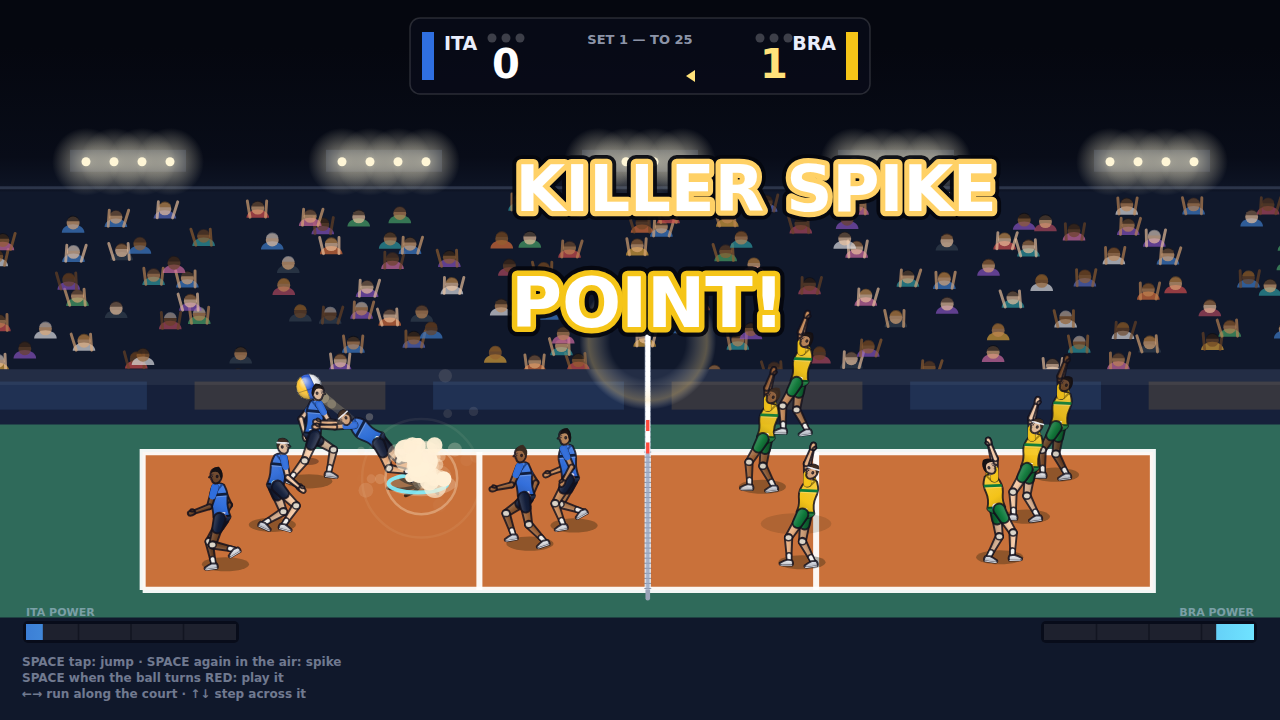
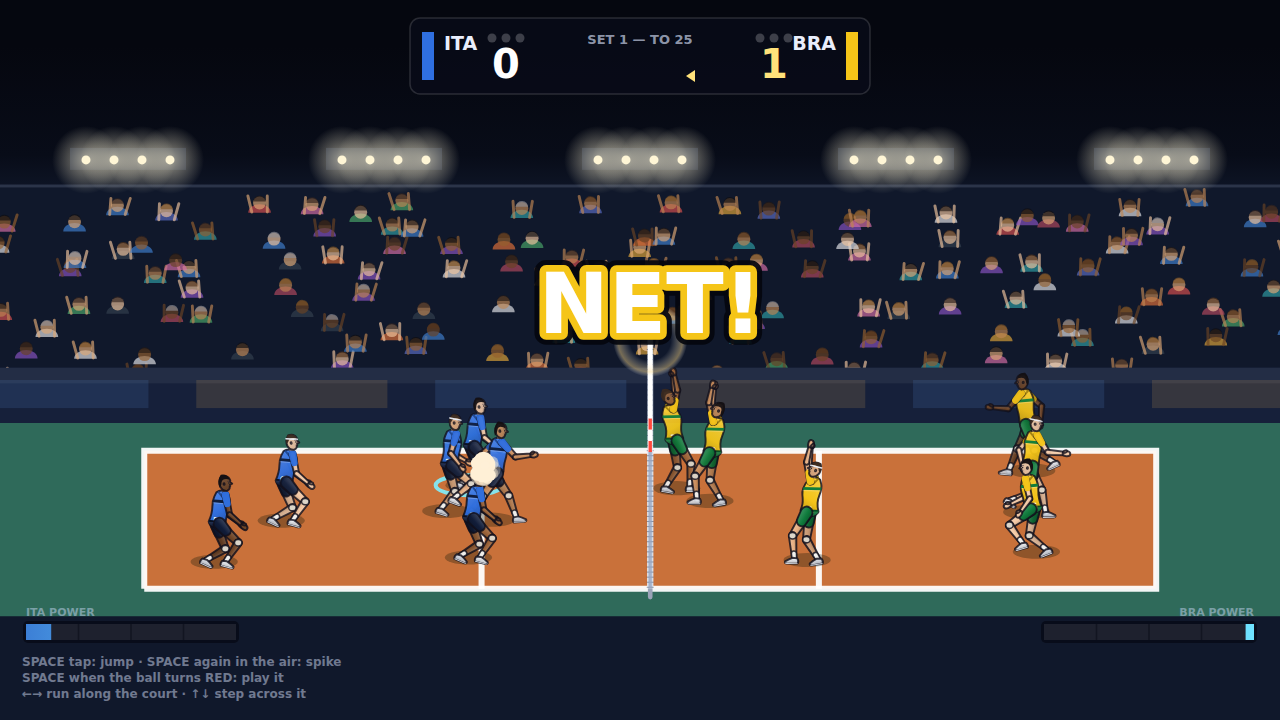
Fix the serve properly: measure where the ball goes, not just that it fired
The previous round reported the serve as working on the strength of a
harness that only checked whether the phase became 'rally'. Extended to
follow the ball, it found none of it worked: **0 of 50 serves reached the
opponent's court**. Four separate defects, each measured before and after.

**The AI never tossed.** The toss fires when the action button is released,
detected from a hold accumulating over time — but the AI issues a press that
begins and ends inside one step and never sets `actionHeld` at all. Every
computer serve therefore waited out the eight-second whistle. A press with
no hold now tosses directly: average time from whistle to serve 1.47 s.

**The server could walk to the net holding the ball**, and a serve from
there has nowhere sensible to go — hence balls landing in your own half or
in a team-mate. The server is now held behind the end line until the strike,
as the rules require, and stands still to throw.

**Jump serves dived into the tape.** The topspin was set at a level whose
Magnus force reached 15 m/s² — more than gravity — so a launch angle that
cleared the net on paper was dragged into it in flight. The spin is now a
believable 1.3, and the clearance solver is told what remains, because a
guarantee computed without spin is not a guarantee.

**The serve-obstruction rule I added was far too blunt**: it asked "is anyone
near the ball while a serve is nominally in flight", which fires all over the
[…]

diff --git a/tools/serve-lab.ts b/tools/serve-lab.ts
@@ -8,7 +8,7 @@
  *
  *   npx tsx tools/serve-lab.ts [attempts]
  */
-import { PLAYER_REACH } from '../src/core/rules';
+import { COURT_HALF_LENGTH, COURT_HALF_WIDTH, PLAYER_REACH } from '../src/core/rules';
 import { World, idleCommand } from '../src/core/world';
 import { TEAMS } from '../src/game/teams';
 
@@ -31,6 +31,10 @@ interface Outcome {
   /** Fraction of the flight during which a press would have worked. */
   windowStart: number;
   windowEnd: number;
+  /** Where the served ball ended up — the only thing that really matters. */
+  landing: 'in' | 'out' | 'own half' | 'net' | 'hit a team-mate' | 'unknown';
+  /** How far from the end line the server was when they struck. */
+  servedFromY: number;
 }
 
 function attempt(seed: number, delay: number, holdSeconds: number): Outcome {
@@ -55,6 +59,8 @@ function attempt(seed: number, delay: number, holdSeconds: number): Outcome {
       reason: 'never reached a home serve',
       windowStart: -1,
       windowEnd: -1,
+      landing: 'unknown',
+      servedFromY: 0,
     };
   }
 
@@ -97,6 +103,41 @@ function attempt(seed: number, delay: number, holdSeconds: number): Outcome {
       windowEnd = t;
     }
     if ((w.phase as string) === 'rally') {
+      const servedFromY = server.pos.y;
+      // Follow it. "The serve fired" is not the same as "the serve worked":
+      // a ball that drops back into your own court, or into the back of a
+      // team-mate, is a serve you could not play, and only watching where it
+      // lands can tell the difference.
+      // Follow the SERVE, and stop the moment its own flight is decided.
+      // Waiting for the rally to end instead measures who won the point, which
+      // is a different question entirely — a served ball can be perfect and
+      // still come back and land at your feet three touches later.
+      // Read the verdict from the game's own events. Watching positions and
+      // guessing was wrong twice: once by measuring who won the rally rather
+      // than where the serve went, and once by carrying on past the end of the
+      // rally and blaming the serve for the next one.
+      let landing: Outcome['landing'] = 'unknown';
+      for (let k = 0; k < 120 * 8 && landing === 'unknown'; k++) {
+        w.step(null, DT);
+        const at = { x: w.ball.pos.x, y: w.ball.pos.y };
+        for (const ev of w.drainEvents()) {
+          if (ev.type === 'contact' && ev.side === 'away') landing = 'in';
+          else if (ev.type === 'contact' && ev.side === 'home' && ev.playerId !== server.id)
+            landing = 'hit a team-mate';
+          else if (ev.type === 'point') {
+            if (ev.reason === 'serveFault') {
+              const inside =
+                Math.abs(at.x) <= COURT_HALF_WIDTH + 0.2 &&
+                Math.abs(at.y) <= COURT_HALF_LENGTH + 0.2;
+              landing =
+                at.y < 0 ? (Math.abs(at.y) < 1.5 ? 'net' : 'own half') : inside ? 'in' : 'out';
+            } else {
+              landing = 'in';
+            }
+          }
+          if (landing !== 'unknown') break;
+        }
+      }
       return {
         delay,
         hold: holdSeconds,
@@ -107,6 +148,8 @@ function attempt(seed: number, delay: number, holdSeconds: number): Outcome {
         reason: '',
         windowStart: windowStart - tossed,
         windowEnd: windowEnd - tossed,
+        landing,
+        servedFromY,
       };
     }
   }
@@ -129,7 +172,71 @@ function attempt(seed: number, delay: number, holdSeconds: number): Outcome {
     reason,
     windowStart,
     windowEnd,
+    landing: 'unknown',
+    servedFromY: server.pos.y,
   };
+}
+
+/**
+ * The other half of the question: what happens when the COMPUTER serves.
+ *
+ * A human serve that works is no use if the opponent buries every one of
+ * theirs in the net — which is exactly what was happening, unnoticed, because
+ * nothing measured it.
+ */
+function aiServes(): void {
+  const w = new World({ home: TEAMS[0], away: TEAMS[1], seed: 21, difficulty: 1 });
+  let inFlight = false;
+  let serving: string | null = null;
+  let before = { x: 0, y: 0 };
+  const out = new Map<string, number>();
+  const waits: number[] = [];
+  let phaseWas = w.phase;
+  let t = 0;
+  let serveStart = -1;
+
+  for (let i = 0; i < 120 * 60 * 6; i++) {
+    before = { x: w.ball.pos.x, y: w.ball.pos.y };
+    w.step(null, DT);
+    t += DT;
+    if (w.phase === 'serve' && phaseWas !== 'serve') serveStart = t;
+    if (phaseWas === 'serve' && (w.phase as string) === 'rally' && serveStart > 0) {
+      waits.push(t - serveStart);
+    }
+    phaseWas = w.phase;
+
+    for (const ev of w.drainEvents()) {
+      if (ev.type === 'contact' && ev.kind === 'serve') {
+        serving = ev.side;
+        inFlight = true;
+      } else if (inFlight && ev.type === 'contact') {
+        out.set('received', (out.get('received') ?? 0) + 1);
+        inFlight = false;
+      } else if (inFlight && ev.type === 'point') {
+        const ours = serving === 'home' ? before.y < 0 : before.y > 0;
+        const inside =
+          Math.abs(before.x) <= COURT_HALF_WIDTH + 0.2 &&
+          Math.abs(before.y) <= COURT_HALF_LENGTH + 0.2;
+        const k =
+          ev.reason !== 'serveFault'
+            ? `point:${ev.reason}`
+            : ours
+              ? Math.abs(before.y) < 1.6
+                ? 'into the net'
+                : 'own half'
+              : inside
+                ? 'ace'
+                : 'out';
+        out.set(k, (out.get(k) ?? 0) + 1);
+        inFlight = false;
+      }
+    }
+  }
+
+  const avg = waits.length ? waits.reduce((a, b) => a + b, 0) / waits.length : 0;
+  console.log(`\ncomputer serves over six minutes of play: ${[...out.values()].reduce((a, b) => a + b, 0)}`);
+  for (const [k, v] of out) console.log(`  ${v}x ${k}`);
+  console.log(`average time from whistle to serve: ${avg.toFixed(2)} s`);
 }
 
 function main(): void {
@@ -160,10 +267,16 @@ function main(): void {
 
   const underarm = served.filter((r) => r.hold > 0.5);
   console.log(`served underarm (deliberate hold): ${underarm.length}`);
+  const byLanding = new Map<string, number>();
+  for (const r of served) byLanding.set(r.landing, (byLanding.get(r.landing) ?? 0) + 1);
+  console.log('where the ball ended up:');
+  for (const [k, v] of byLanding) console.log(`  ${v}x ${k}`);
+  const worst = Math.max(...served.map((r) => r.servedFromY));
+  console.log(`served from as far forward as y=${worst.toFixed(2)} (end line is -${COURT_HALF_LENGTH})`);
   console.log('\ndelay  hold   result');
   for (const r of results) {
     const tag = r.served
-      ? `SERVED ${r.jump ? 'jumping' : 'standing'} at z=${r.contactZ.toFixed(2)} lift=${r.liftAtHit.toFixed(2)}`
+      ? `SERVED ${r.jump ? 'jumping' : 'standing'} z=${r.contactZ.toFixed(2)} lift=${r.liftAtHit.toFixed(2)} -> ${r.landing}`
       : `missed — ${r.reason}`;
     console.log(`${r.delay.toFixed(2)}s  ${r.hold.toFixed(2)}s  ${tag}`);
   }
@@ -181,3 +294,4 @@ function main(): void {
 }
 
 main();
+aiServes();

diff --git a/src/core/world.ts b/src/core/world.ts
@@ -410,11 +410,34 @@ export class World {
    * at full stretch and it is a driven jump serve. A toss allowed to drop is
    * simply caught and retried.
    */
+  /**
+   * Keep the server in the service zone.
+   *
+   * The rules put the server behind the end line until the ball is struck, and
+   * without enforcing it a player could simply walk to the net holding the
+   * ball and serve from there — from where a served ball has nowhere sensible
+   * to go and ends up back in their own court or in a team-mate.
+   */
+  private confineServer(server: Player): void {
+    const dir = attackDir(this.servingSide);
+    const line = COURT_HALF_LENGTH + 0.35;
+    if (dir > 0) {
+      if (server.pos.y > -line) {
+        server.pos.y = -line;
+        server.vel.y = Math.min(0, server.vel.y);
+      }
+    } else if (server.pos.y < line) {
+      server.pos.y = line;
+      server.vel.y = Math.max(0, server.vel.y);
+    }
+    server.pos.x = clamp(server.pos.x, -COURT_HALF_WIDTH + 0.3, COURT_HALF_WIDTH - 0.3);
+  }
+
   private stepServe(commands: Map<number, Command>, dt: number): void {
-    void dt;
     const team = this.team(this.servingSide);
     const server = team.server;
     const cmd = commands.get(server.id) ?? idleCommand();
+    this.confineServer(server);
 
     // The whistle: after eight seconds the serve happens by itself.
     if (this.phaseTimer > 8) {
@@ -444,7 +467,11 @@ export class World {
         this.serveHold += dt;
         return;
       }
-      if (this.serveHold > 0) {
+      // A press that begins and ends within a single step — which is what the
+      // AI issues, and what a very quick human tap looks like — never sets
+      // `actionHeld` at all. Without this branch the AI could not toss, and
+      // every computer serve waited out the eight-second whistle instead.
+      if (this.serveHold > 0 || cmd.actionPressed) {
         const held = this.serveHold;
         this.serveHold = 0;
         server.releasedCharge = 0;
@@ -457,6 +484,10 @@ export class World {
           return;
         }
         this.ball.frozen = false;
+        // Stand still to throw. Tossing while walking sent the ball wherever
+        // the server happened to be running, and it could never be met.
+        server.vel.x = 0;
+        server.vel.y = 0;
         // Straight up, with only a hint of drift into the court. A toss thrown
         // well ahead of the server cannot be reached without stepping over the
         // line, which is a fault — and made the serve unhittable.
@@ -530,11 +561,21 @@ export class World {
    */
   private checkServeObstruction(): void {
     if (!this.serveInFlight || this.ball.grounded) return;
+    // Only the serve's own outward flight counts. Testing "is anyone near the
+    // ball while a serve is nominally in flight" fired all over the court in
+    // the middle of rallies and turned nearly every point into a serve fault:
+    // the ball has to still be on the serving side, heading away from the
+    // server, and travelling at serve pace.
+    const dir = attackDir(this.servingSide);
+    const stillOurs = dir > 0 ? this.ball.pos.y < -0.4 : this.ball.pos.y > 0.4;
+    const outbound = dir > 0 ? this.ball.vel.y > 4 : this.ball.vel.y < -4;
+    if (!stillOurs || !outbound) return;
+
     for (const p of this.team(this.servingSide).players) {
       if (p.id === this.lastToucherId) continue;
-      if (distXY(p.pos, this.ball.pos) > 0.45) continue;
-      const low = p.height;
-      const high = p.height + PLAYER_REACH * 0.9;
+      if (distXY(p.pos, this.ball.pos) > 0.4) continue;
+      const low = p.height + 0.2;
+      const high = p.height + PLAYER_REACH * 0.85;
       if (this.ball.pos.z < low || this.ball.pos.z > high) continue;
       this.awardPoint(otherSide(this.servingSide), 'serveFault');
       return;

diff --git a/src/core/ball.ts b/src/core/ball.ts
@@ -301,7 +301,7 @@ export function solveArcOverNet(
  * Uses the same closed-form drag integration as `Ball.step`, so the clearance
  * it promises is the clearance the ball gets.
  */
-export function clearsNet(from: Vec3, vel: Vec3, margin = 0.16): boolean {
+export function clearsNet(from: Vec3, vel: Vec3, margin = 0.16, extraDown = 0): boolean {
   if (from.y === 0 || Math.sign(vel.y) === Math.sign(from.y)) return true;
   const k = AIR_DRAG;
   const d = Math.abs(from.y);
@@ -311,7 +311,10 @@ export function clearsNet(from: Vec3, vel: Vec3, margin = 0.16): boolean {
   if (ratio >= 1) return true;
   const t = -Math.log(1 - ratio) / k;
   const decay = (1 - Math.exp(-k * t)) / k;
-  const g = GRAVITY;
+  // Spin is not a detail here: a jump serve's topspin pulls the ball down with
+  // roughly half the force of gravity, so a trajectory that clears the tape on
+  // paper buries itself in the net in flight.
+  const g = GRAVITY - extraDown;
   const zAtNet = from.z + (vel.z - g / k) * decay + (g / k) * t;
   return zAtNet >= NET_HEIGHT + BALL_RADIUS + margin;
 }
@@ -327,12 +330,21 @@ export function clearsNet(from: Vec3, vel: Vec3, margin = 0.16): boolean {
  * but overshoots the court, this falls back to the arc solver so the ball both
  * clears the net and lands where it was aimed.
  */
-export function driveOverNet(from: Vec3, to: Vec3, speed: number, margin = 0.14): Vec3 {
+export function driveOverNet(
+  from: Vec3,
+  to: Vec3,
+  speed: number,
+  margin = 0.14,
+  extraDown = 0,
+): Vec3 {
   const flat = solveDrive(from, to, speed);
-  if (clearsNet(from, flat, margin)) return flat;
+  if (clearsNet(from, flat, margin, extraDown)) return flat;
   const dist = Math.hypot(to.x - from.x, to.y - from.y);
   const minFlight = Math.max(0.35, (dist / Math.max(6, speed)) * 1.05);
-  return solveArcOverNet(from, to, margin, minFlight, minFlight * 2.6);
+  // Lift the arc by whatever the spin will take away by the time it reaches
+  // the tape, so the guarantee survives contact with the Magnus term.
+  const drop = extraDown * 0.5 * (dist / Math.max(6, speed)) ** 2;
+  return solveArcOverNet(from, to, margin + drop, minFlight, minFlight * 2.8);
 }
 
 export function clearNet(from: Vec3, vel: Vec3, margin = 0.16): Vec3 {

diff --git a/src/core/contact.ts b/src/core/contact.ts
@@ -7,6 +7,7 @@ import {
   BALL_RADIUS,
   COURT_HALF_LENGTH,
   COURT_HALF_WIDTH,
+  MAGNUS,
   NET_HEIGHT,
   PLAYER_RADIUS,
   PLAYER_REACH,
@@ -154,8 +155,17 @@ export function performServe(ctx: StrikeContext): StrikeResult {
   const jumpServe = charge > 0.5 && player.airborne;
   if (jumpServe) {
     const speed = lerp(15, 23, charge) * (0.85 + 0.3 * player.stats.power);
-    const vel = driveOverNet(from, target, speed, 0.2);
-    const spin = v3(-3.2 * attackDir(player.side), 0, ctx.rng.spread(1.4));
+    // Topspin, but a believable amount of it. At -3.2 the Magnus term reached
+    // 15 m/s² — more than gravity — so every jump serve dived into the tape
+    // whatever the launch angle said.
+    const spinX = -1.3 * attackDir(player.side);
+    // Topspin on a jump serve pulls down with about half the force of gravity.
+    // The clearance solver has to be told, or it promises a trajectory the
+    // spin then drags into the tape — which is where a third of all serves
+    // were ending up.
+    const magnusDown = Math.abs(spinX * speed) * MAGNUS;
+    const vel = driveOverNet(from, target, speed, 0.25, magnusDown);
+    const spin = v3(spinX, 0, ctx.rng.spread(1.4));
     ball.strike(vel, spin);
     return { kind: 'serve', target, speed };
   }

diff --git a/tools/input-e2e.ts b/tools/input-e2e.ts
@@ -77,6 +77,10 @@ async function main(): Promise<void> {
     await page.waitForTimeout(120);
   };
 
+  // The server is held behind the end line until the ball is struck, so the
+  // forward axis has to be measured from further back: step away from the line
+  // first, then push forward and check the player comes back towards it.
+  await hold('ArrowLeft', 600);
   let before = await active();
   await hold('ArrowRight', 600);
   let after = await active();

diff --git a/src/core/rules.ts b/src/core/rules.ts
@@ -61,7 +61,7 @@ export const MIN_LEAD = 2;
 
 /** Upward speed of the serve toss. High enough that a jumping server meets
  *  the ball near full reach — which is what makes a jump serve possible. */
-export const TOSS_SPEED = 6.4;
+export const TOSS_SPEED = 7.1;
 
 /**
  * Forward component of the serve toss, m/s. A jump serve is struck moving
